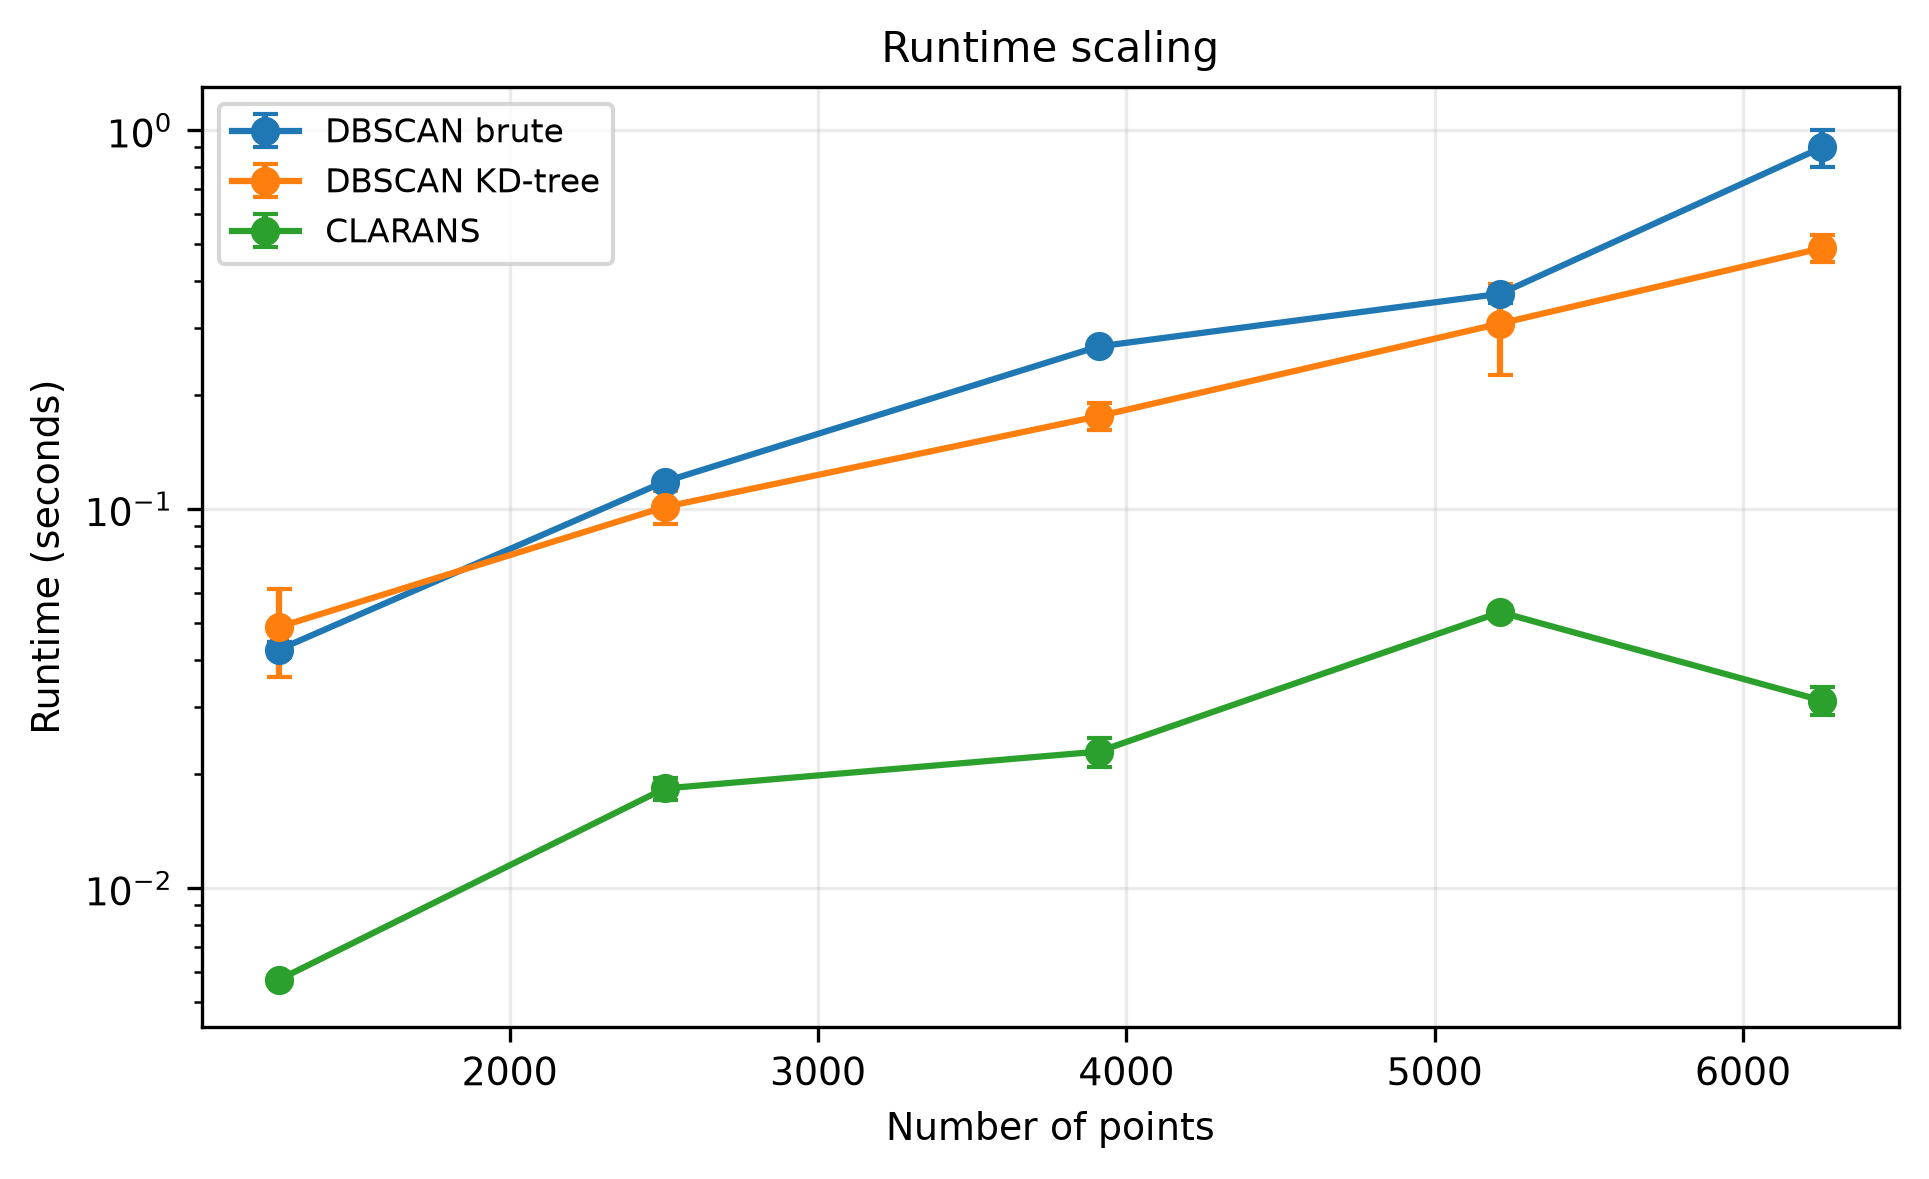
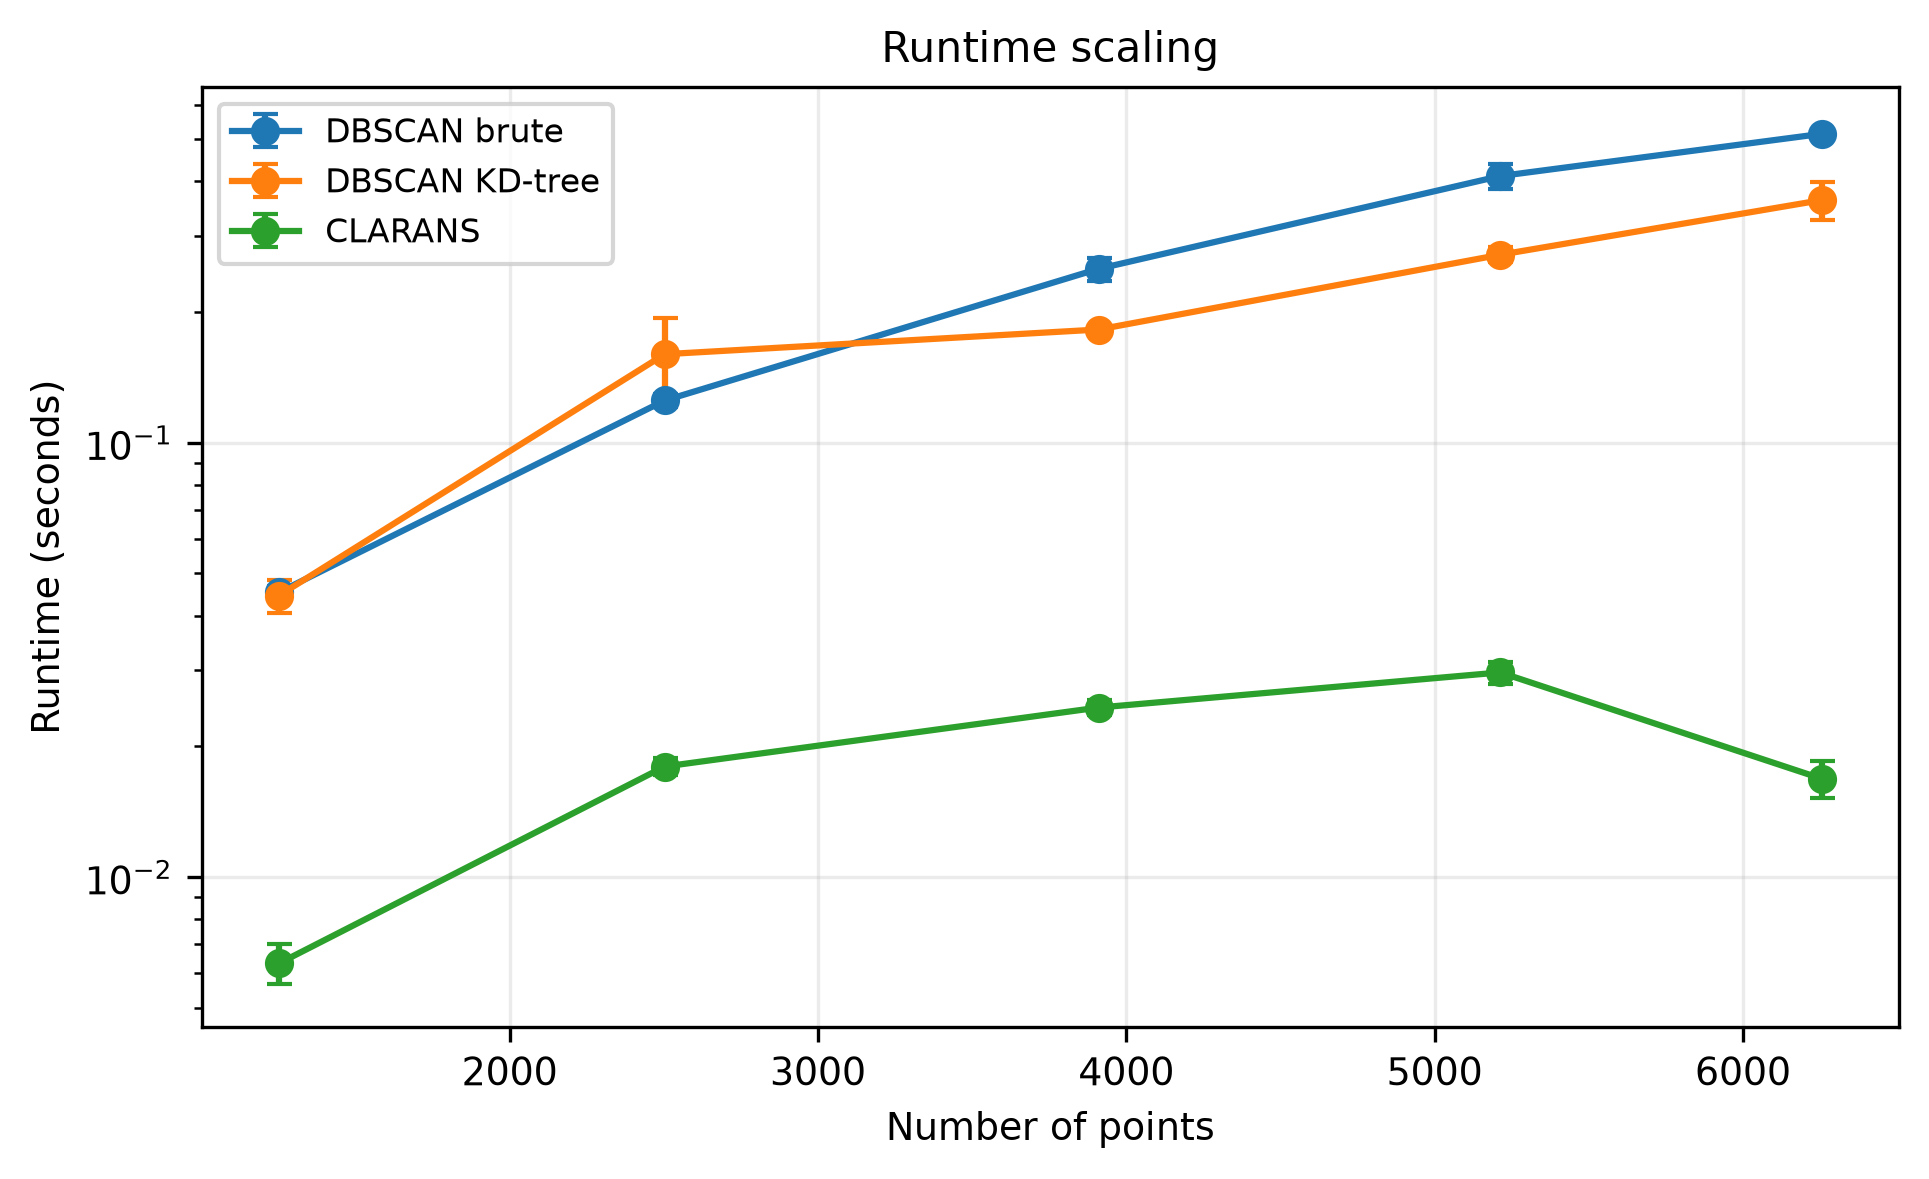
Completed  m3

diff --git a/Source/experiments/03_runtime.py b/Source/experiments/03_runtime.py
@@ -8,6 +8,7 @@ from __future__ import annotations
 import argparse
 import csv
 from pathlib import Path
+from typing import TypedDict
 
 import matplotlib.pyplot as plt
 from dbscan_repro.clarans import CLARANS
@@ -16,6 +17,16 @@ from dbscan_repro.datasets import make_spatial_scaling_dataset
 from dbscan_repro.dbscan import DBSCANScratch
 from dbscan_repro.metrics import measure_runtime_seconds
 from dbscan_repro.plotting import apply_paper_style, save_figure
+
+
+class RuntimeResult(TypedDict):
+    n_samples: int
+    method: str
+    mean_seconds: float
+    std_seconds: float
+    repeats: int
+    warmups: int
+    seed: int
 
 
 def parse_args() -> argparse.Namespace:
@@ -35,9 +46,10 @@ def main() -> None:
     set_seed(cfg.seed)
     settings = cfg.params["runtime"]
     sizes = settings["sample_sizes"]
+    warmups = int(settings.get("warmup_runs", 1))
     cfg.results_dir.mkdir(parents=True, exist_ok=True)
     apply_paper_style()
-    rows: list[dict[str, object]] = []
+    rows: list[RuntimeResult] = []
     write_run_metadata(cfg, "runtime")
     for n_samples in sizes:
         X = make_spatial_scaling_dataset(n_samples, cfg.seed)
@@ -56,6 +68,8 @@ def main() -> None:
             ).fit_predict(data),
         }
         for method, run in methods.items():
+            for _ in range(warmups):
+                run()
             _, mean, std = measure_runtime_seconds(run, repeats=settings["repeats"])
             rows.append(
                 {
@@ -64,6 +78,7 @@ def main() -> None:
                     "mean_seconds": mean,
                     "std_seconds": std,
                     "repeats": settings["repeats"],
+                    "warmups": warmups,
                     "seed": cfg.seed,
                 }
             )

diff --git a/Docs/ai-usage/M3.md b/Docs/ai-usage/M3.md
@@ -13,17 +13,16 @@
 Codex — AI coding assistant (GPT-6)
 
 ### Prompt
-Implement the M3 paper-reproduction components in the assigned source files:
-write the from-scratch CLARANS baseline, deterministic figure-inspired DB1–3
-generators, and a 2D spatial substitute for SEQUOIA 2000; complete the
-clustering metrics, runtime measurement, and shared plotting helpers; and
-implement experiments 01–03 for effectiveness, sorted k-dist curves, and
-runtime scaling. Export reproducible CSV/PNG results and record the seed,
-configuration, and software environment with each run.
+Build a complete plan for the M3 role (from-scratch CLARANS baseline,
+figure-inspired synthetic DB1–3, a 2D SEQUOIA 2000 substitute, clustering
+metrics and plotting helpers, experiments 01–03, and report sections §1.2.1
+and §1.2.3). Inspect `AGENTS.md`, the course specification, the DBSCAN paper,
+and the default experiment configuration before deciding the implementation
+and experiment details.
 
 ---
 
-## Entry 2 — Report and results
+## Entry 2 — Experimental setup and results
 
 ### Date
 2026-11-28
@@ -32,16 +31,16 @@ configuration, and software environment with each run.
 Codex — AI coding assistant (GPT-6)
 
 ### Prompt
-Write the M3-owned report sections §1.2.1 (experimental setup) and §1.2.3
-(comparison and results) in English. Describe that DB1–3 are figure-inspired
-recreations and that the generated 2D spatial data substitute for, but do not
-reproduce, SEQUOIA 2000. Run experiments 01–03, present their measured
-clustering and runtime results, and explain the limits of comparing these
-results with the original paper.
+Implement the approved M3 plan: write `CLARANS` in
+`Source/src/dbscan_repro/clarans.py`; implement deterministic DB1–3 and the 2D
+SEQUOIA 2000 substitute in `Source/src/dbscan_repro/datasets.py`; complete
+`clustering_summary`, `measure_runtime_seconds`, and the shared plotting
+helpers; and implement experiments 01–03 in `Source/experiments/`. Preserve
+seeded reproducibility and export the experiment results and run metadata.
 
 ---
 
-## Entry 3 — Branch and scope
+## Entry 3 — AI usage log
 
 ### Date
 2026-11-29
@@ -50,7 +49,10 @@ results with the original paper.
 Codex — AI coding assistant (GPT-6)
 
 ### Prompt
-Preserve the existing M2 branch and keep all M3 changes on a separate local
-feature branch. Do not push the branch or changes to GitHub. Limit the work to
-M3's assigned files and report sections; leave M4's Experiment 04 and bonus
-report section untouched.
+Run experiments 01–03 and summarize the DBSCAN-versus-CLARANS effectiveness,
+the sorted k-dist Eps-selection curves, and runtime scaling at the configured
+paper sample sizes. Complete the M3 sections §1.2.1 (Experimental Setup) and
+§1.2.3 (Results Comparison and Analysis) in English, documenting the synthetic
+DB1–3 recreation, the SEQUOIA 2000 substitute, measured results, environment,
+and limitations compared with the original paper. Run lint and compile the
+Typst report before finishing.
